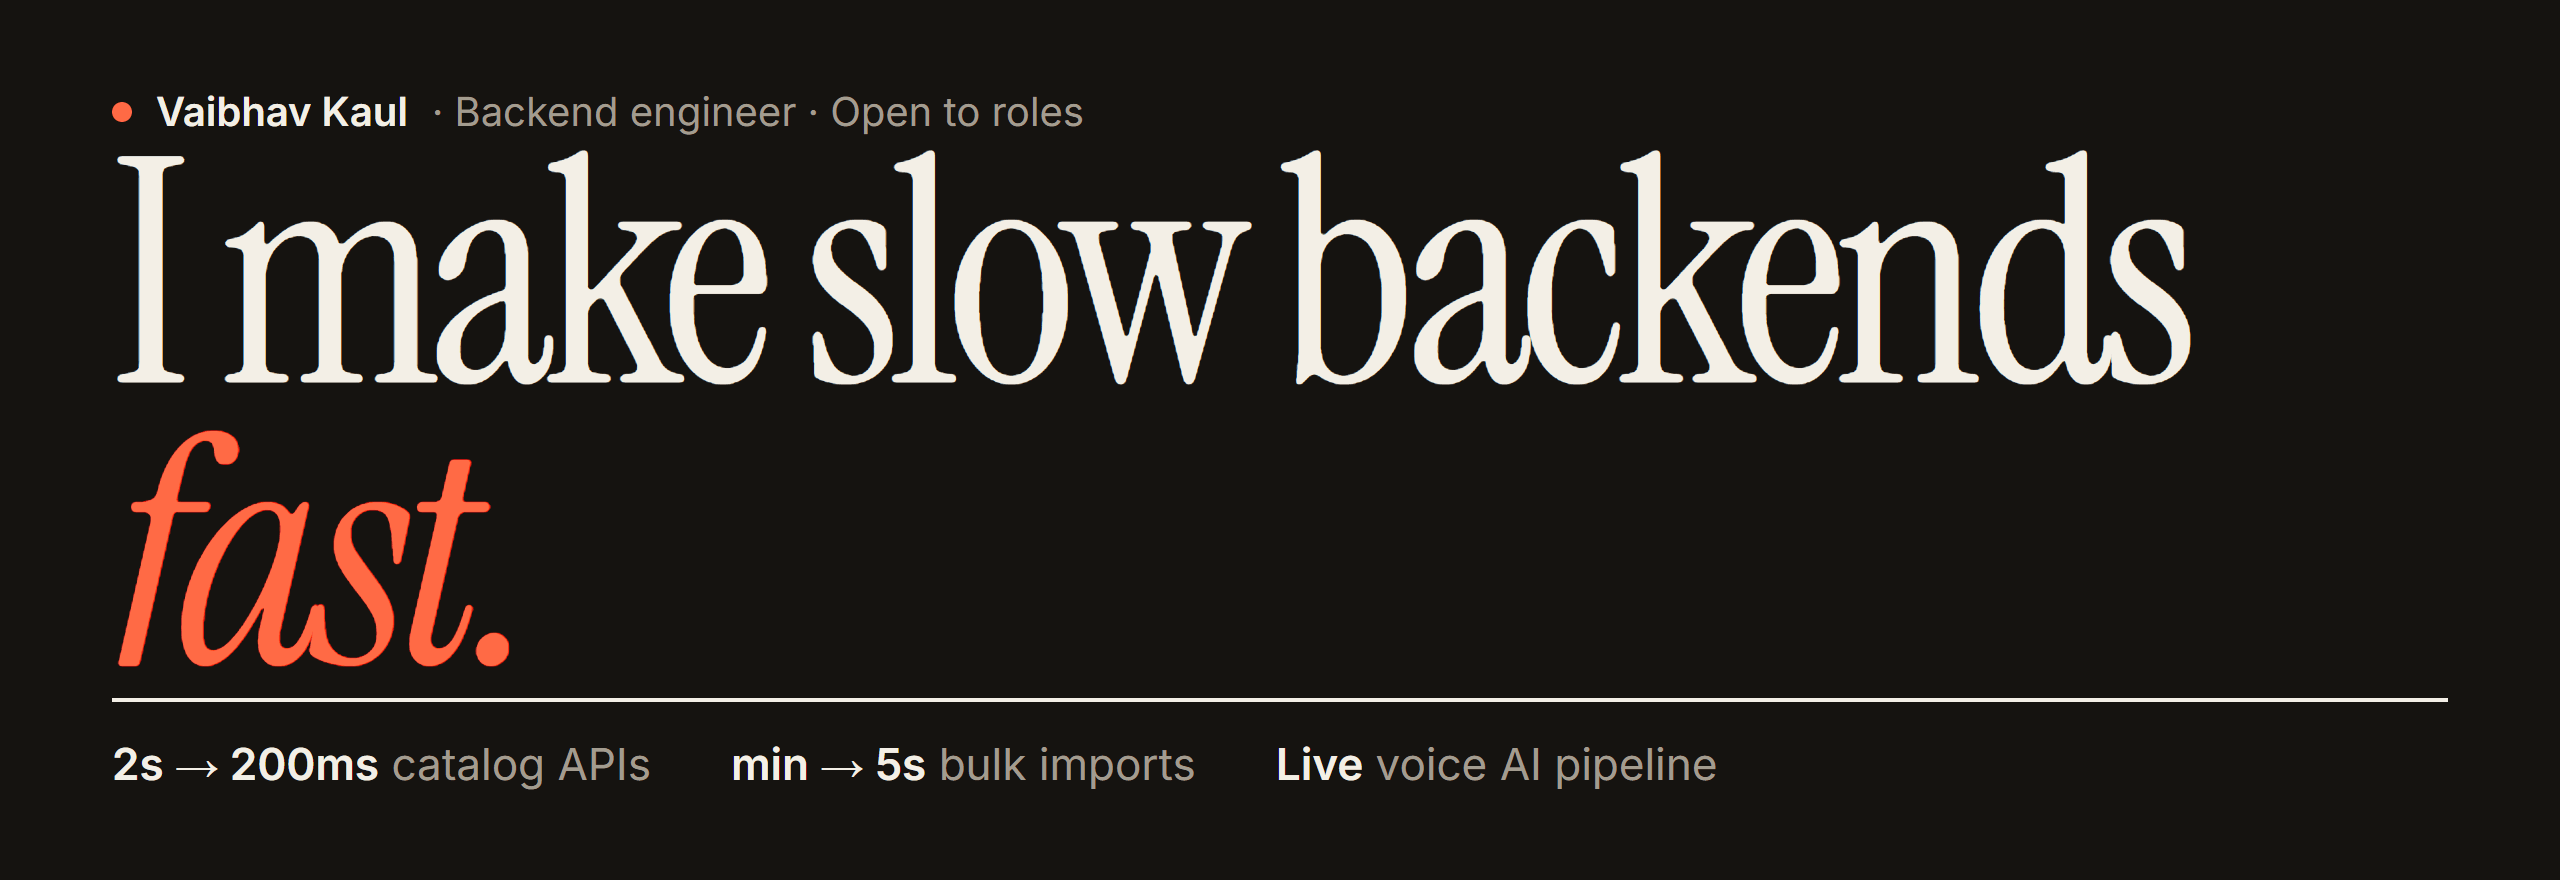
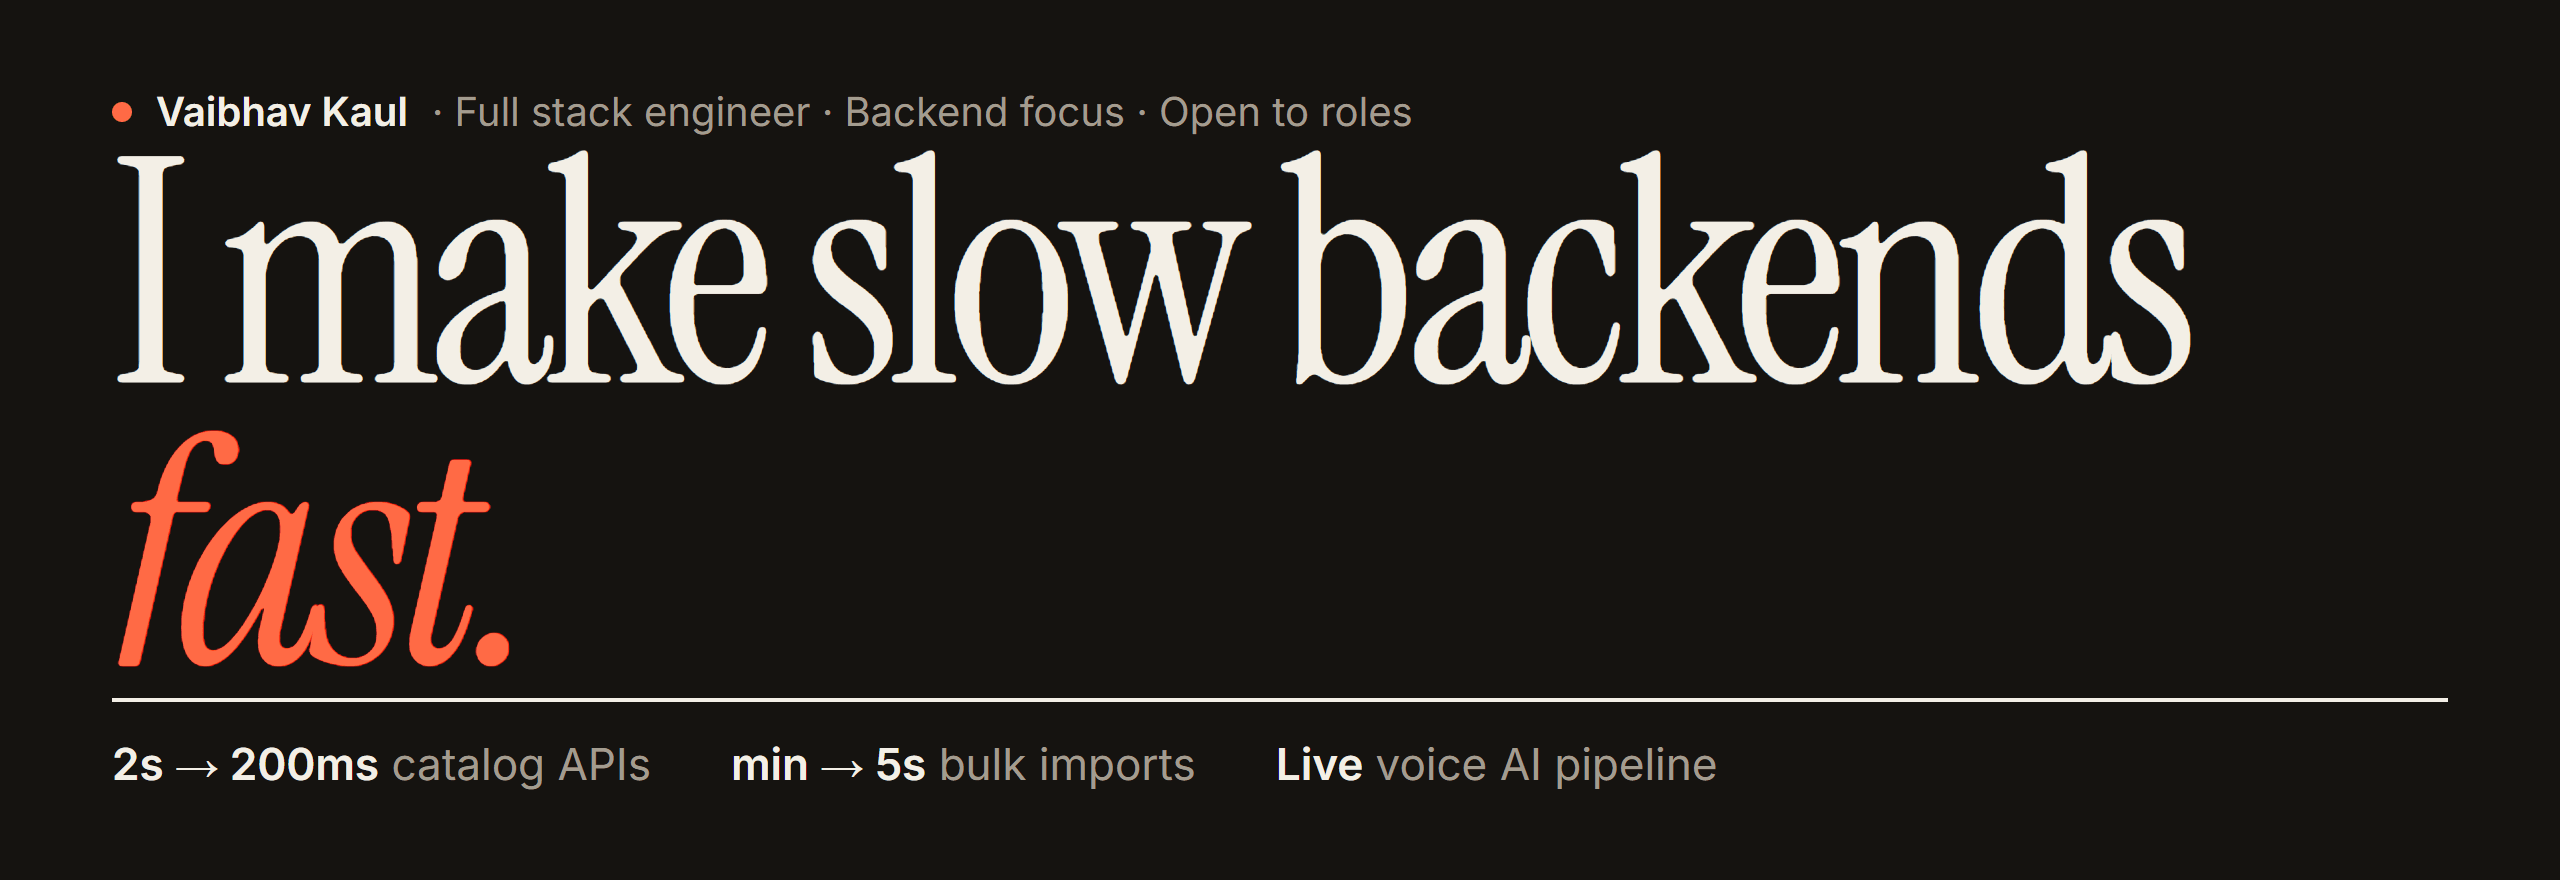
Position profile as full stack engineer with a backend focus

Changed region(s): [[0.1875, 0.092, 0.5625, 0.1534]]

diff --git a/README.md b/README.md
@@ -1,13 +1,13 @@
 <a href="https://vaibhav-kaul.web.app">
   <picture>
     <source media="(prefers-color-scheme: dark)" srcset="./assets/banner-dark.png" />
-    <img alt="Vaibhav Kaul, backend engineer: I make slow backends fast." src="./assets/banner-light.png" width="100%" />
+    <img alt="Vaibhav Kaul, full stack engineer with a backend focus: I make slow backends fast." src="./assets/banner-light.png" width="100%" />
   </picture>
 </a>
 
-### Backend engineer · Node.js, Python, PostgreSQL, AWS
+### Full stack engineer, backend focus · Node.js, Python, PostgreSQL, AWS, React
 
-I've spent 2+ years shipping delivery, e-commerce and real-time voice systems to production. Most of that code lives in private company repositories, so the evidence is summarised below and the full case studies, with architecture diagrams, are on my portfolio.
+I've spent 2+ years shipping delivery, e-commerce and real-time voice products to production, from React and Next.js front ends down to the APIs, databases and AWS infrastructure behind them, which is where I go deepest. Most of that code lives in private company repositories, so the evidence is summarised below and the full case studies, with architecture diagrams, are on my portfolio.
 
 **[Portfolio](https://vaibhav-kaul.web.app)** · [LinkedIn](https://www.linkedin.com/in/vaibhav-kaul-448889246/) · [Resume](https://vaibhav-kaul.web.app/resume.pdf) · [Email](mailto:shivamkaul11@gmail.com)
 
